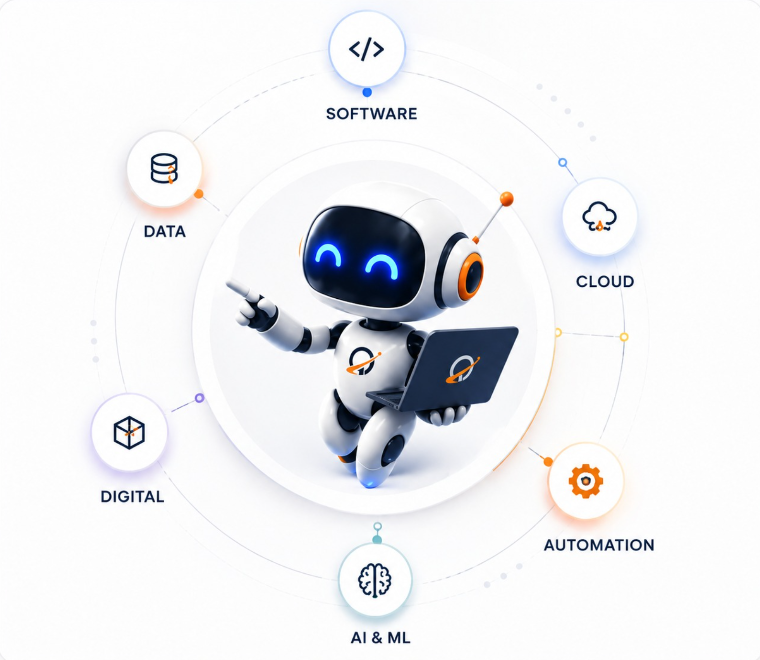
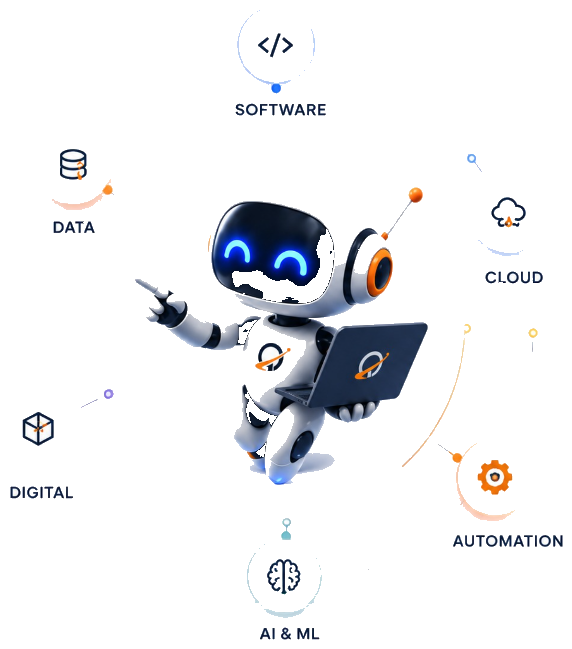
Update robo-light.png with transparent background and wire in Hero3DVisual

diff --git a/orbitonetechsolutions/orbitone/src/components/Hero3DVisual.jsx b/orbitonetechsolutions/orbitone/src/components/Hero3DVisual.jsx
@@ -78,7 +78,7 @@ export default function Hero3DVisual() {
         }}
       >
         <img
-          src={roboImg}
+          src={theme === 'light' ? '/assets/robo-light.png' : roboImg}
           alt="Orbitone Technology Ecosystem"
           className="floating-image"
           style={{
